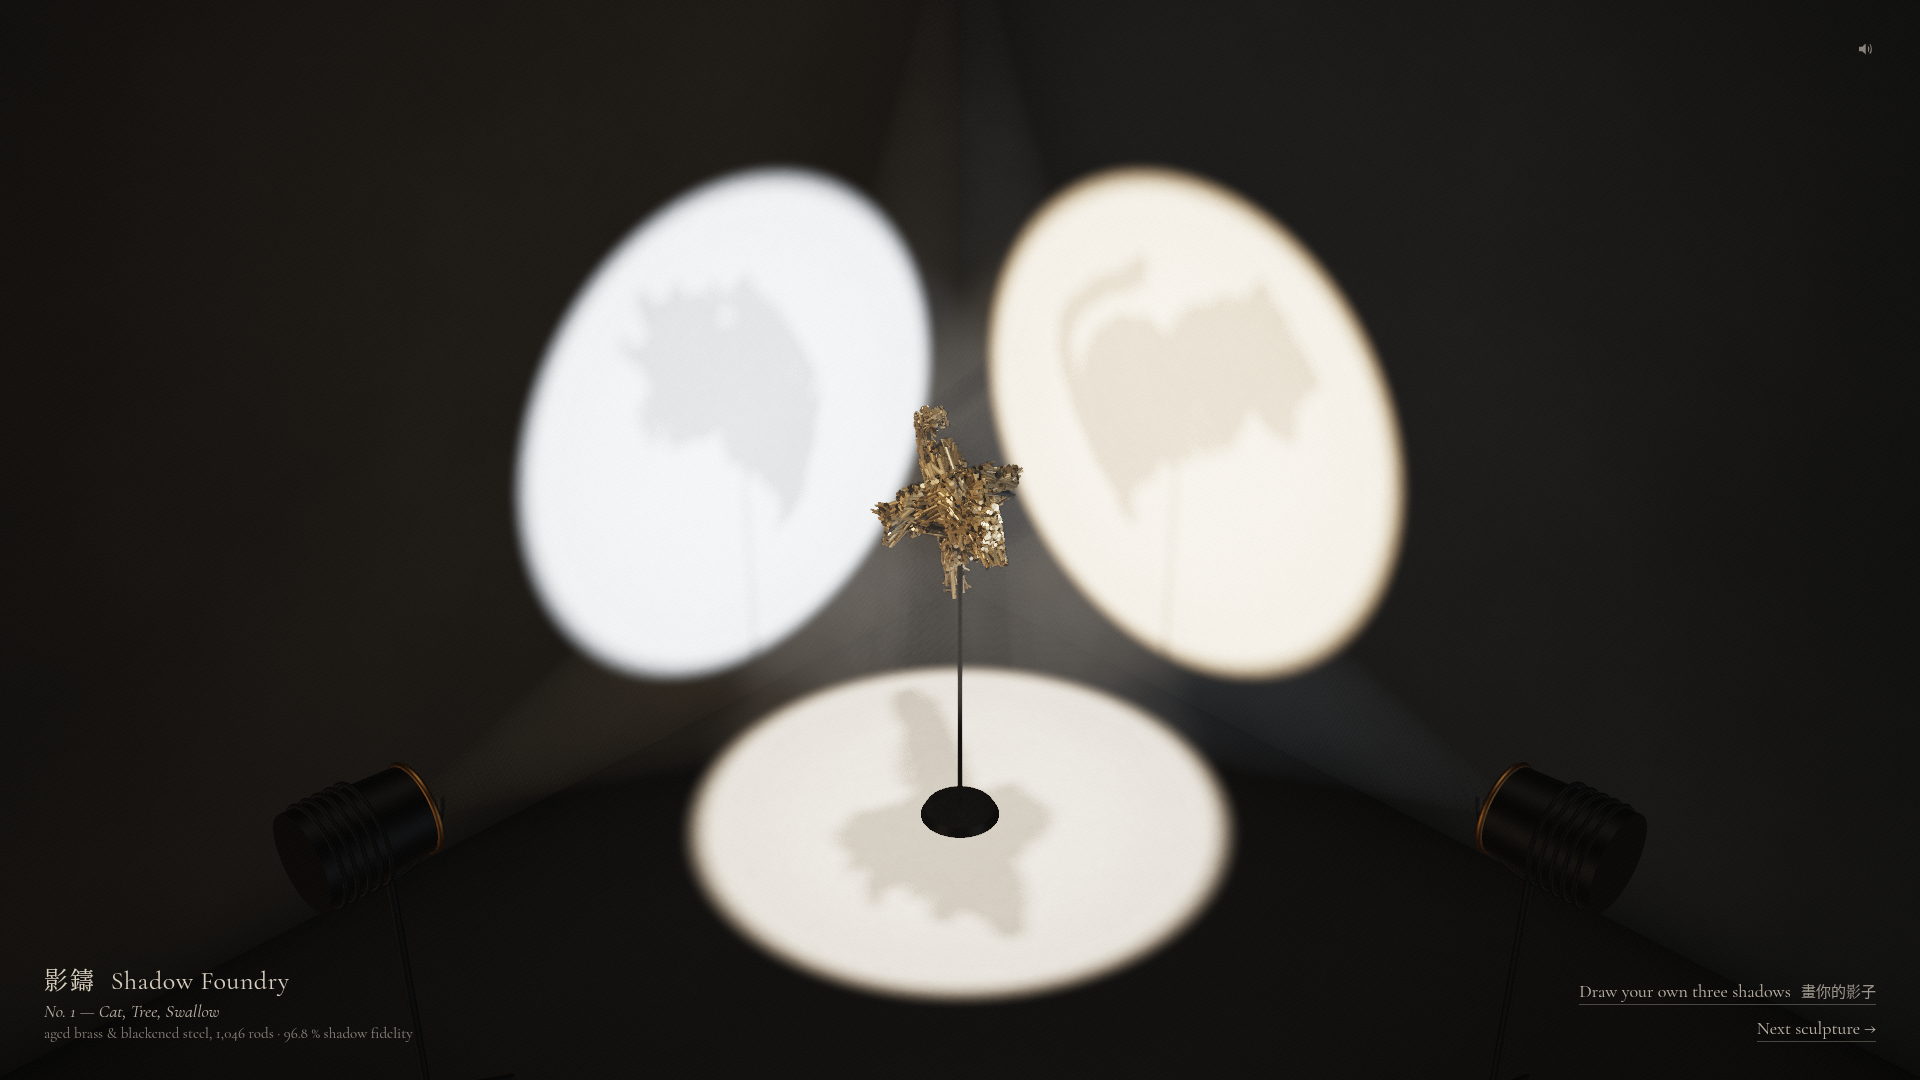
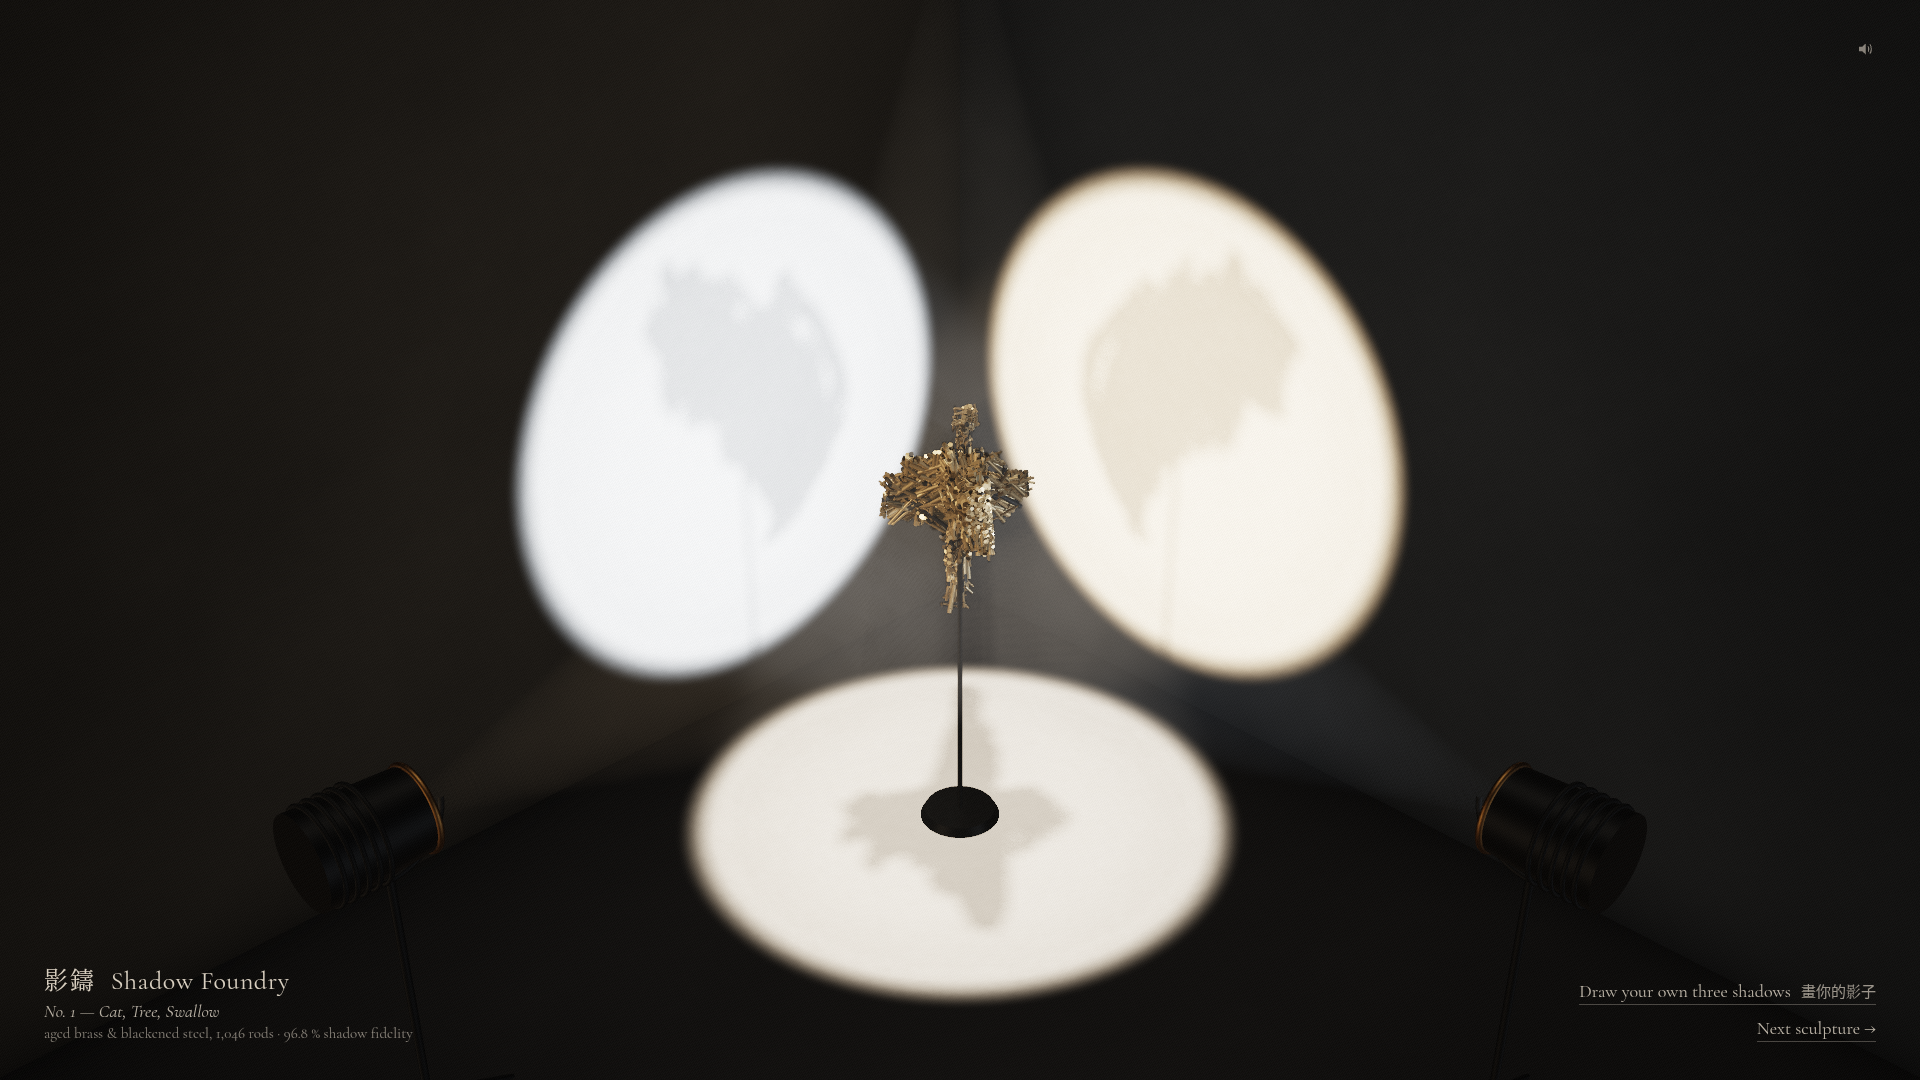
20261008-shadow-foundry: render-verified scramble pose; evidence shots

diff --git a/20261008-shadow-foundry/js/main.js b/20261008-shadow-foundry/js/main.js
@@ -278,7 +278,7 @@ $('mute').onclick = (e) => { e.stopPropagation(); sound.start(); sound.setMuted(
 const PRESET_LIST = PRESETS;
 let presetIdx = +(Q.get('preset') || 0);
 let work = null;          // current forged work {orig, masks, rods, fidHull, fidRods, titles, no}
-let SCR = [{ yaw: 2.27, tilt: 0.62 }, { yaw: +(Q.get('sy') || -0.6), tilt: +(Q.get('st') || 0.65) }];
+let SCR = [{ yaw: 2.27, tilt: 0.62 }, { yaw: +(Q.get('sy') || -0.9), tilt: +(Q.get('st') || 0.45) }];
 const st = { mode: 'intro', t: 0, introT: 0, yaw: 0, tilt: 0, vy: 0, vt: 0, drag: false, lockAt: -1, locked: false, lastMove: 0, freeStart: 0, labelA: 0, anim: 0, lastLockIntro: false, lampMul: 1 };
 
 function loadWork(w) {
